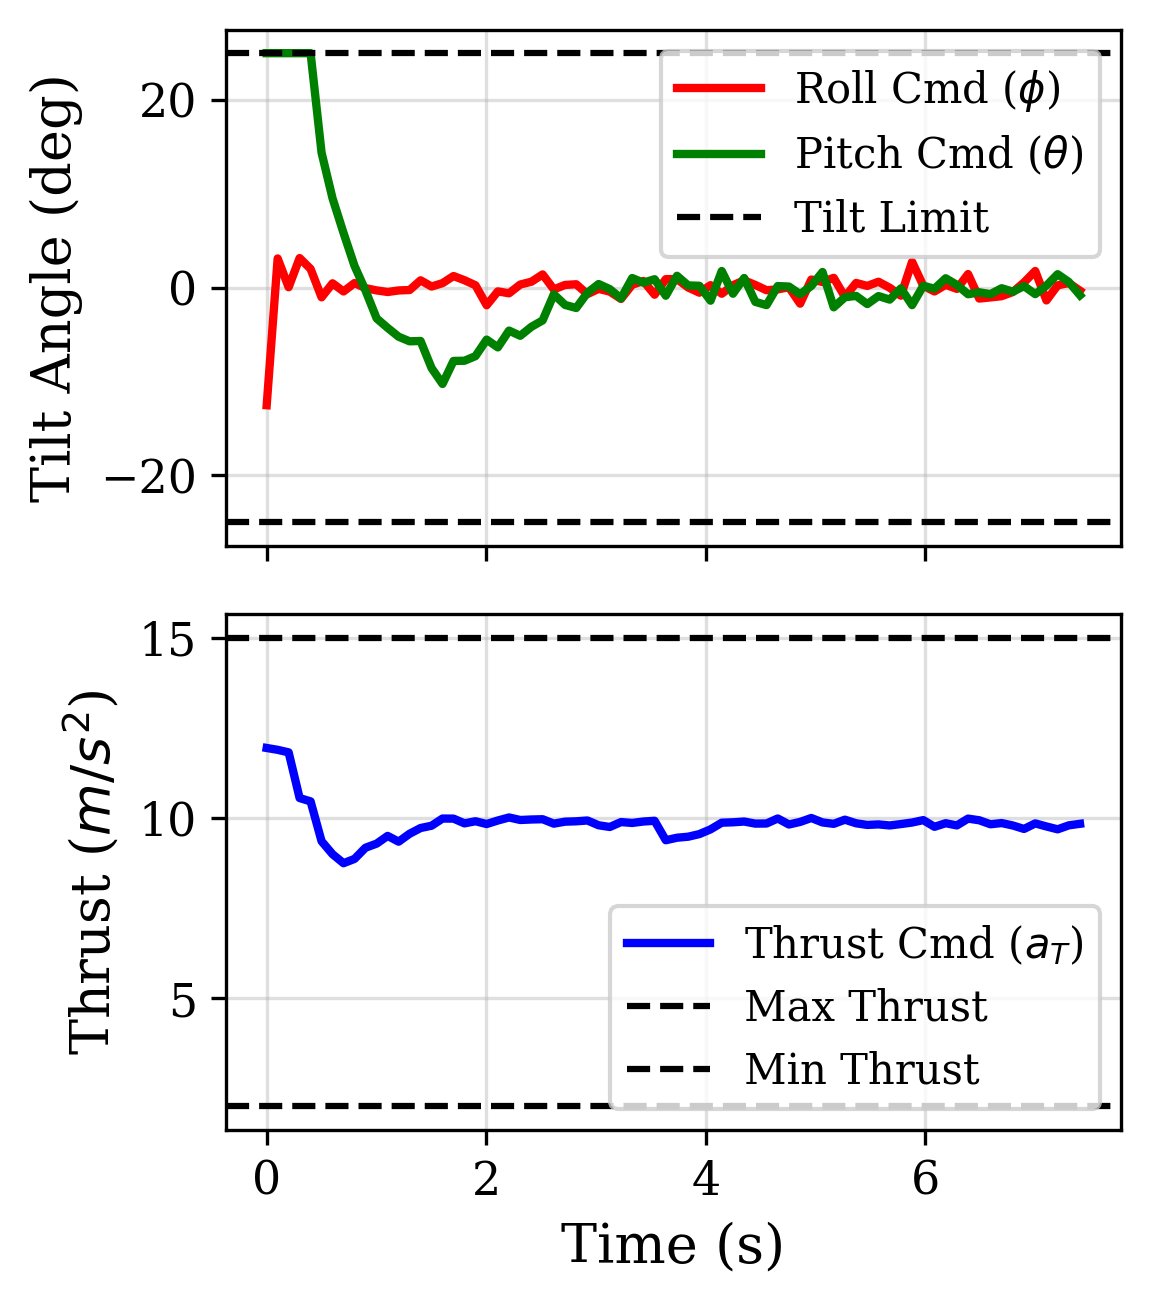
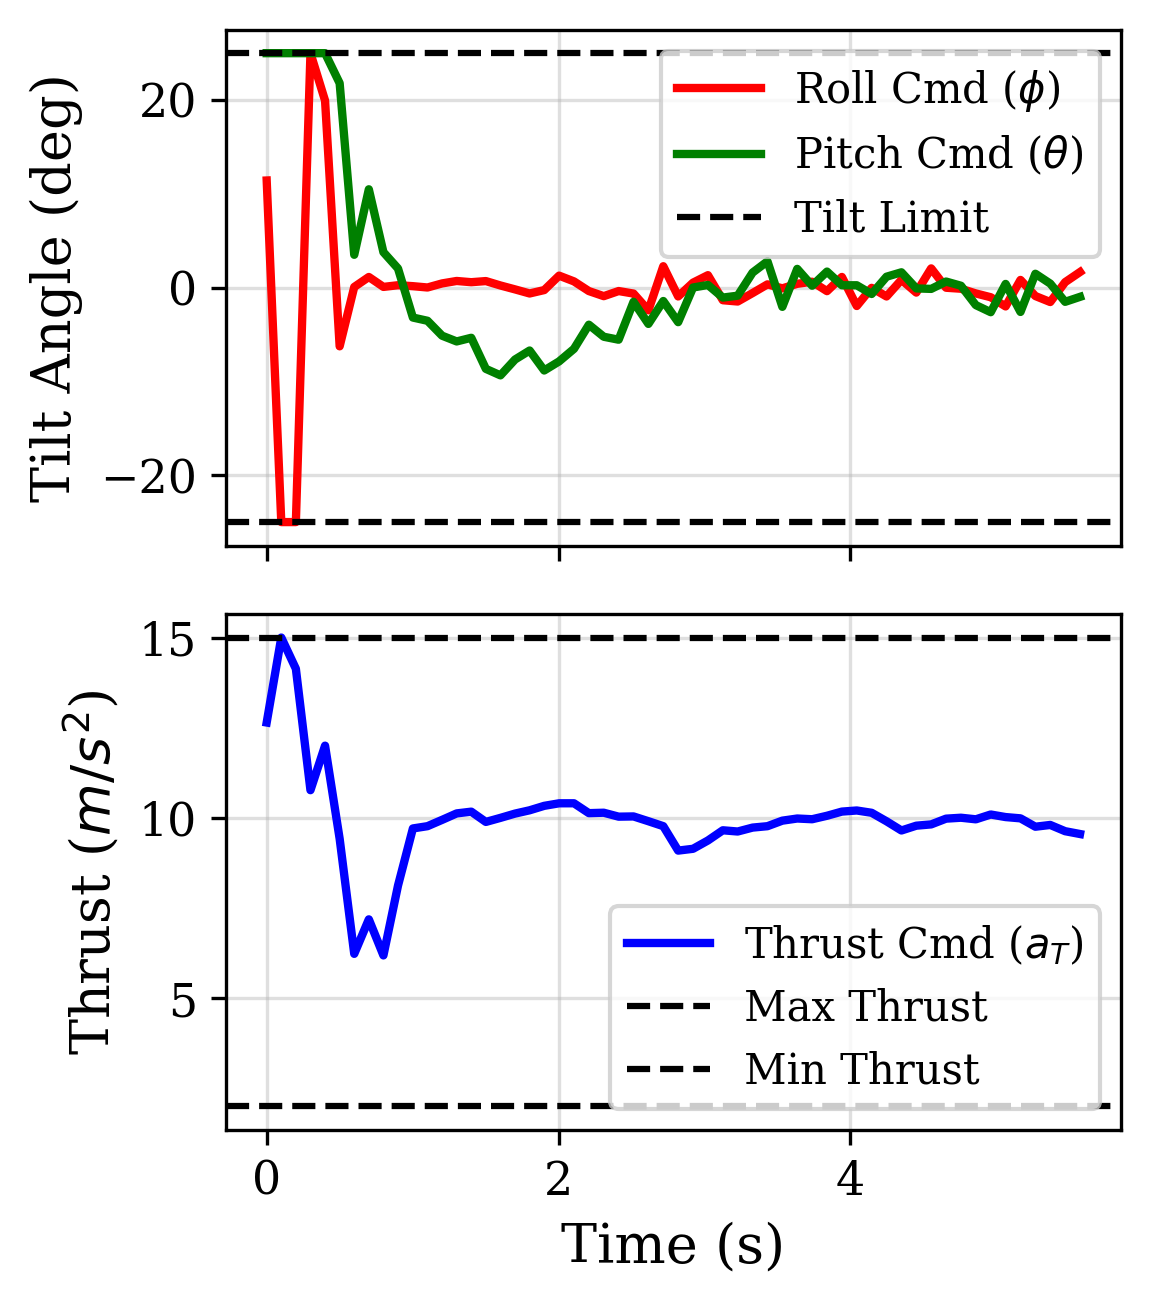
linear case mujoco

diff --git a/gym-pybullet-drones-main/gym_pybullet_drones/mujoco/SCP_linear.py b/gym-pybullet-drones-main/gym_pybullet_drones/mujoco/SCP_linear.py
@@ -256,7 +256,7 @@ pd_roll  = PDController(kp=200.0, kd=50.0)
 pd_pitch = PDController(kp=200.0, kd=50.0)
 pd_yaw   = PDController(kp=100.0, kd=25.0)
 
-nmpc_planner = DroneNMPC(dt=NMPC_DT, N=25)
+nmpc_planner = DroneNMPC(dt=NMPC_DT, N=15)
 
 # Initialization
 p_target_true = np.array([1.0, 0.0, 1.0])
@@ -572,7 +572,7 @@ ax_cone.axhline(np.degrees(THETA), color='r', linestyle='--', linewidth=2, label
 ax_cone.axvline(dock_time, color='k', linestyle=':', linewidth=1.5, label='Docking Achieved')
 ax_cone.set_xlabel('Time (s)')
 ax_cone.set_ylabel('Approach angle $\\phi$ (deg)')
-ax_cone.legend()
+ax_cone.legend(loc='upper right')
 plt.tight_layout()
 fig6.savefig("ieee_plots/6_docking_cone_angle.png", dpi=300, bbox_inches='tight')
 
@@ -581,10 +581,10 @@ fig8 = plt.figure(figsize=SINGLE_COL)
 ax_r = plt.gca()
 dist_to_target = np.linalg.norm(traj - tar_hist, axis=1)
 ax_r.plot(time_steps, dist_to_target, 'm-', linewidth=2.5, label='Relative Distance')
-ax_r.axhline(0.1, color='k', linestyle='--', linewidth=1.5, label='Docking Tolerance (0.1m)')
-ax_r.annotate('Exponential Convergence', xy=(time_steps[len(time_steps)//2], dist_to_target[len(time_steps)//2]), 
-             xytext=(time_steps[len(time_steps)//3], dist_to_target[len(time_steps)//3] + 0.5),
-             arrowprops=dict(facecolor='black', arrowstyle='->'), fontsize=10)
+ax_r.axhline(0.2, color='k', linestyle='--', linewidth=1.5, label='Docking Tolerance (0.2m)')
+# ax_r.annotate('Exponential Convergence', xy=(time_steps[len(time_steps)//2], dist_to_target[len(time_steps)//2]), 
+#              xytext=(time_steps[len(time_steps)//3], dist_to_target[len(time_steps)//3] + 0.5),
+#              arrowprops=dict(facecolor='black', arrowstyle='->'), fontsize=10)
 ax_r.set_xlabel('Time (s)')
 ax_r.set_ylabel('Distance to Target (m)')
 ax_r.legend()

diff --git a/gym-pybullet-drones-main/gym_pybullet_drones/mujoco/SCP_static_EKF.py b/gym-pybullet-drones-main/gym_pybullet_drones/mujoco/SCP_static_EKF.py
@@ -680,9 +680,9 @@ ax_r.plot(time_steps, dist_to_target, 'm-', linewidth=2.5, label='Relative Dista
 ax_r.axhline(0.1, color='k', linestyle='--', linewidth=1.5, label='Docking Tolerance (0.1m)')
 
 # Annotate convergence rate
-ax_r.annotate('Exponential Convergence', xy=(time_steps[len(time_steps)//2], dist_to_target[len(time_steps)//2]), 
-             xytext=(time_steps[len(time_steps)//3], dist_to_target[len(time_steps)//3] + 0.5),
-             arrowprops=dict(facecolor='black', arrowstyle='->'), fontsize=10)
+# ax_r.annotate('Exponential Convergence', xy=(time_steps[len(time_steps)//2], dist_to_target[len(time_steps)//2]), 
+#              xytext=(time_steps[len(time_steps)//3], dist_to_target[len(time_steps)//3] + 0.5),
+#              arrowprops=dict(facecolor='black', arrowstyle='->'), fontsize=10)
 
 ax_r.set_xlabel('Time (s)')
 ax_r.set_ylabel('Distance to Target (m)')
